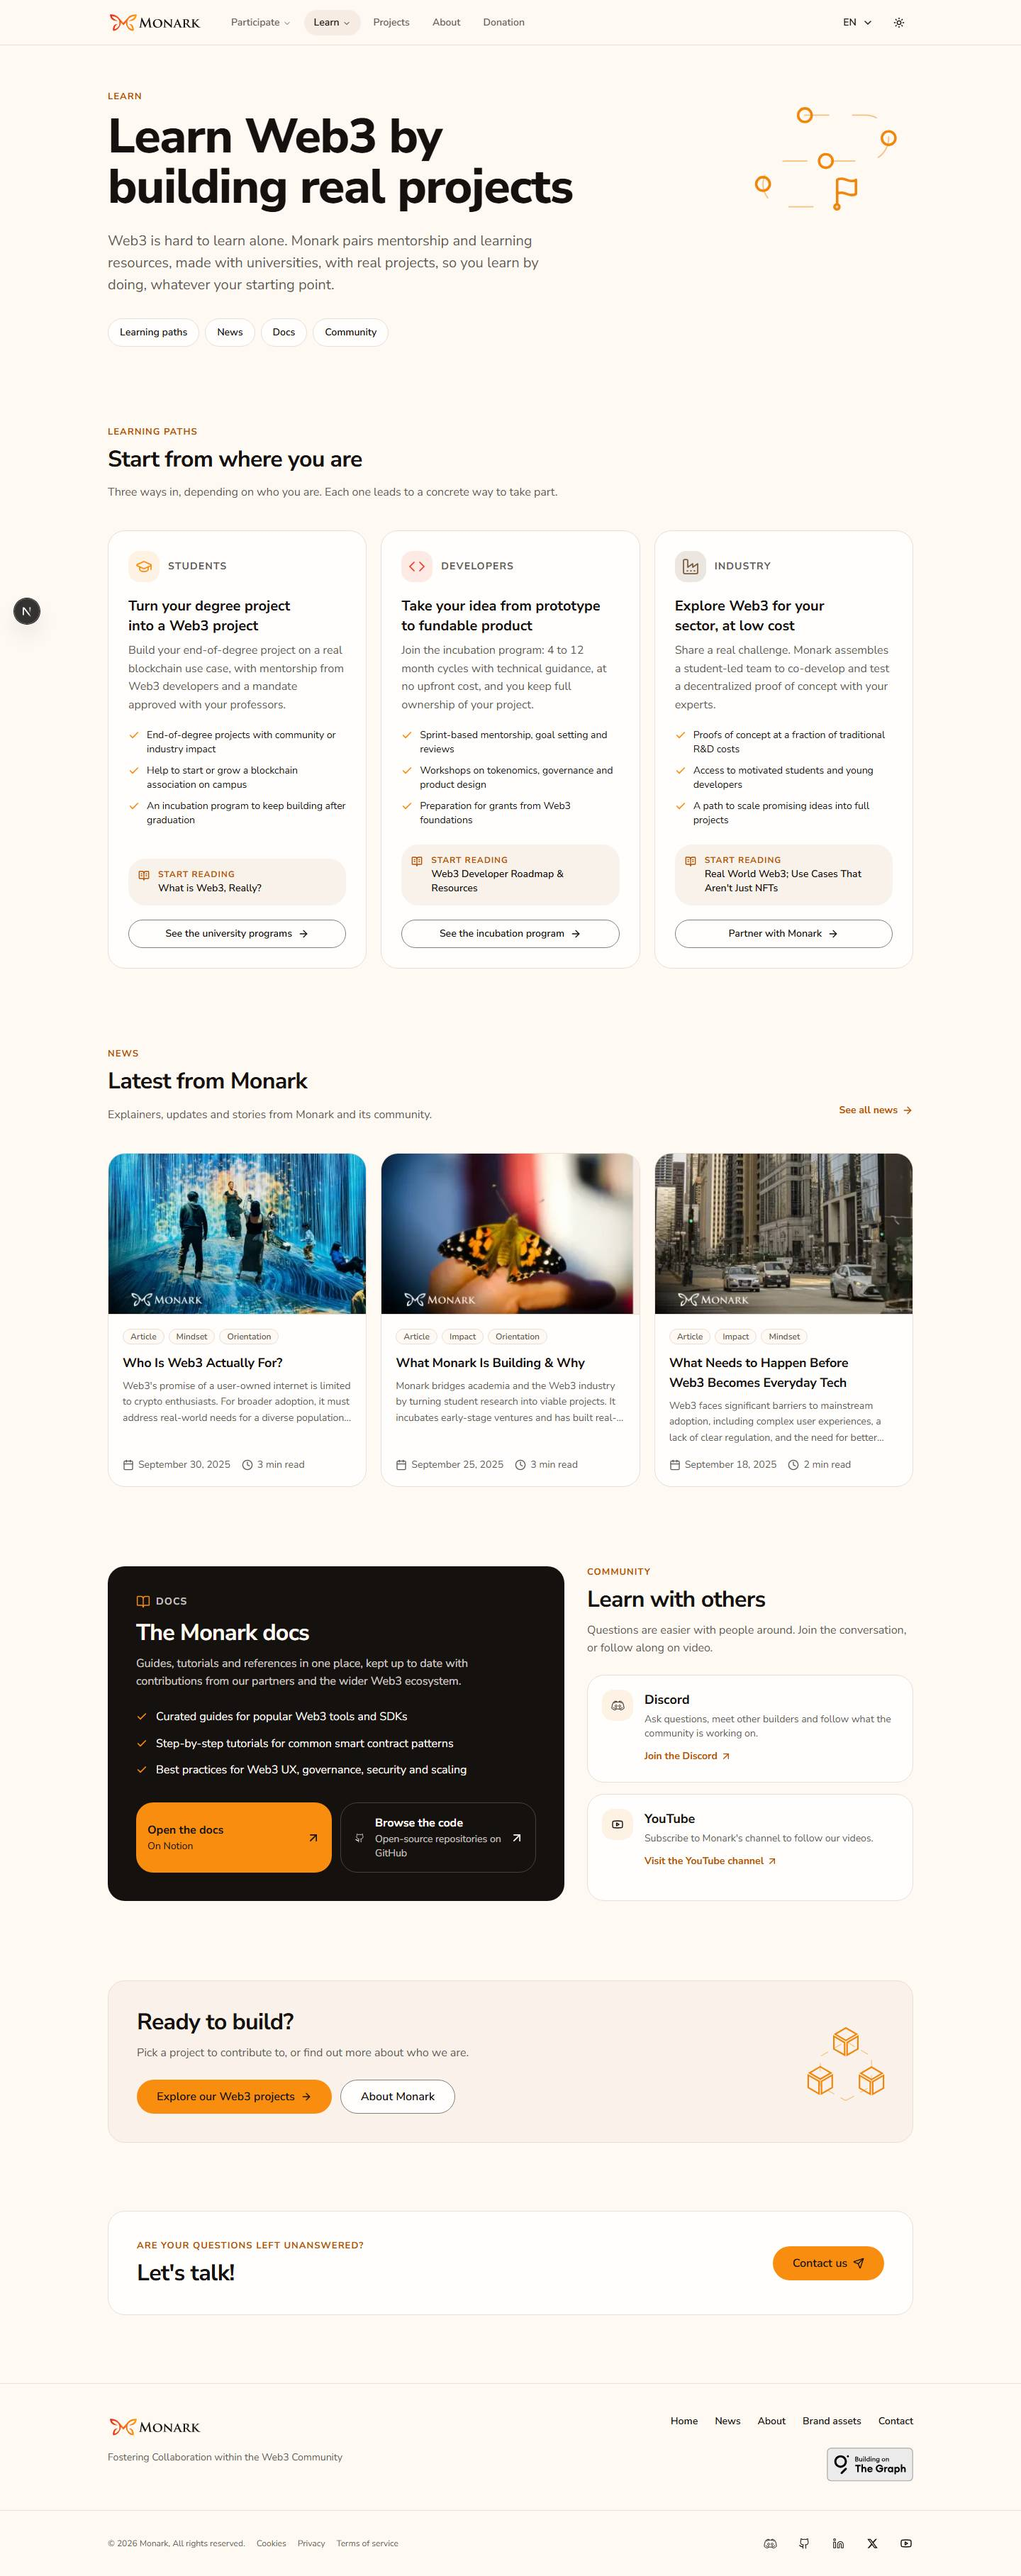
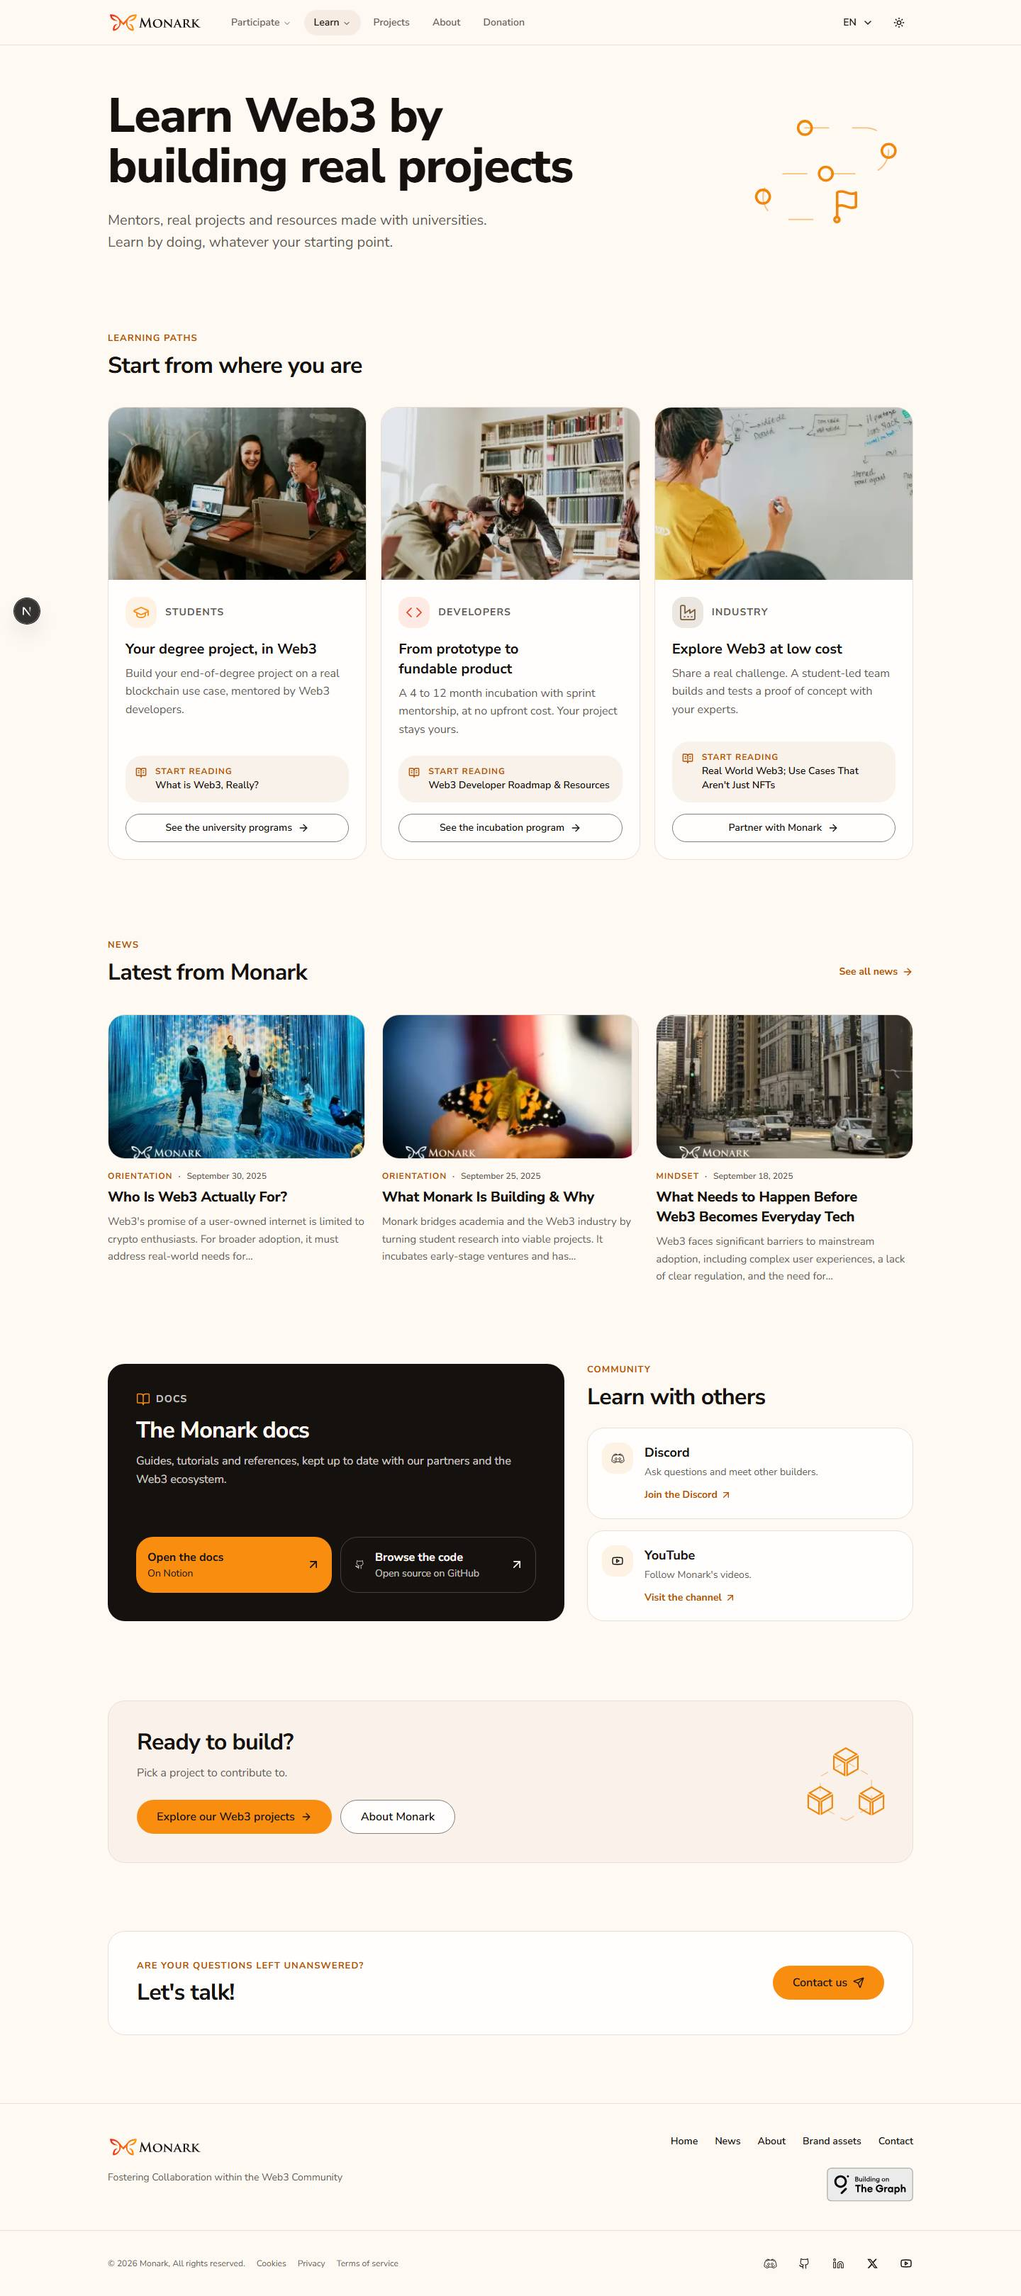
docs: Learn hub and news screenshots and design note
Claude-Session: https://claude.ai/code/session_01At2SeqiTfzUbYRLANAdBLP

diff --git a/docs/redesign-2026/README.md b/docs/redesign-2026/README.md
@@ -47,9 +47,9 @@ Headings and UI strings are in sentence case in English; the French strings alre
 
 **About page.** Rebuilt in React from typed en/fr content (`components/pages/about/about.i18n.ts`) instead of MDX. The author card stays sticky in the left column; every section sits in the right column (no full-width band), so the card never overlaps one. Sections: a hero with who Monark is for; "Why Monark" as three barriers each met by Monark's answer; "How Monark works" as four numbered cards; mission and vision on an inverted panel (`bg-foreground`/`text-background`: espresso in light mode, cream in dark), where orange is decorative only; the five values as an icon grid with chart-colour accents; a closing call to action to the projects and participate pages. The route's layout is a plain container, because the global `article` prose styles restyled lists and links. `after/about-1440-light-scrolled.jpg` shows the sticky card mid-page, and `after/fr-about-*` the French page.
 
-**Learn hub.** `/learn` replaces the "Work in progress" placeholder with a hub built from typed en/fr content (`components/pages/learn/learn.i18n.ts`) and section components, like the About page. Sections: a hero with in-page jump links; learning paths for students, developers and industry, each summarising its participate page, pointing to an existing news article to read first and linking to the participate page; the three latest news items (same data as `/learn/news`); the Monark docs on an inverted panel (the Notion hub the top navigation already links as "Docs", plus the GitHub organisation); Discord and YouTube from `socials.ts`; a closing call to action. No courses, dates or partners were added. The blurred glow copy was removed from `roadmap.svg` (hero art, also used by the home FAQ), as it was for the other line art. See `after/learn-*` and `after/fr-learn-*`.
+**Learn hub.** `/learn` replaces the "Work in progress" placeholder with a hub built from typed en/fr content (`components/pages/learn/learn.i18n.ts`) and section components, like the About page, and follows the brand's text budgets ("Restraint", guidelines §8). Sections: a hero (headline and one line); learning paths for students, developers and industry, each with a photo of people, one line from its participate page, an existing news article to read first and a link to the participate page; the three latest news items (same data as `/learn/news`); the Monark docs on an inverted panel (the Notion hub the top navigation already links as "Docs", plus the GitHub organisation); Discord and YouTube from `socials.ts`; a closing call to action. No courses, dates or partners were added. The three photos are free-licence Unsplash images, listed in `docs/assets.md`. The blurred glow copy was removed from `roadmap.svg` (hero art, also used by the home FAQ), as it was for the other line art. See `after/learn-*` and `after/fr-learn-*`.
 
-**News.** The list (`/learn/news`) has a wide featured card for the latest item, then a card grid; cards show the cover, tags, date and reading time, and the whole card is one link. Search covers titles, summaries and tags, with an empty state for no results and for no news at all. The article page (`/learn/news/[id]`) has a back link, tags, title, summary, byline (author, date, reading time, city), share buttons (LinkedIn, X, copy link), the cover with its credit, the MDX body at ~68ch, the original source when there is one, and "More news". The body's typography is a CSS module (`news-prose.module.scss`), so it can't leak into other pages, and the route no longer wraps pages in `<article>`. Dates are formatted in UTC, because the stored calendar days showed as the previous day in North American time zones. Share metadata now uses the article's real `.webp` cover (the shared helper pointed to a `.jpg` that doesn't exist), with Open Graph `article` fields, en/fr alternates and NewsArticle JSON-LD. See `after/news-*` and `after/fr-news-*`.
+**News.** The list (`/learn/news`) reads like a magazine front page: the latest story as a large image-led feature (16:9) with the next two beside it, then every other story in an image-first grid. Each card shows the cover, one topic tag, the date, the title and a summary cut to 20 words; the whole card is one link, and hover lifts it slightly and zooms the image (motion-safe). Topic pills filter the grid (tags carried by every item, like "Article", are left out); they scroll sideways on phones. There is an empty state for no news. The article page (`/learn/news/[id]`) has a back link, tags, title, summary, byline (author, date, reading time, city), share buttons (LinkedIn, X, copy link), a large 16:9 cover with its credit, the MDX body at ~68ch, the original source when there is one, and "More news". The body's typography is a CSS module (`news-prose.module.scss`), so it can't leak into other pages, and the route no longer wraps pages in `<article>`. Dates are formatted in UTC, because the stored calendar days showed as the previous day in North American time zones. Share metadata now uses the article's real `.webp` cover (the shared helper pointed to a `.jpg` that doesn't exist), with Open Graph `article` fields, en/fr alternates and NewsArticle JSON-LD. See `after/news-*` and `after/fr-news-*`.
 
 **Motion.** Transitions run at 150–250ms ease-out. `prefers-reduced-motion` turns off animations, transitions and view transitions, and the table of contents scrolls instantly under reduced motion.
 
